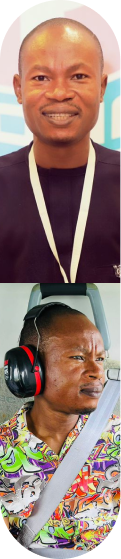
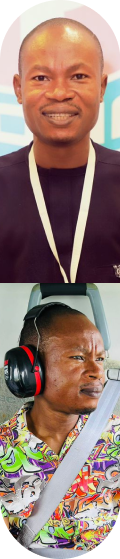
[chore]: improve about section design

diff --git a/src/components/AboutSummary.vue b/src/components/AboutSummary.vue
@@ -19,14 +19,14 @@ import HeaderCaption from "./HeaderCaption.vue";
     />
 
     <div
-      class="grid space-y-16 lg:space-y-0 lg:grid-cols-2 place-items-center gap-10"
+      class="grid space-y-16 lg:space-y-0 lg:grid-cols-2 place-items-center gap-4"
     >
       <div>
-        <div class="grid grid-cols-4 gap-2">
-          <img :src="ap1" alt="ap1" class="h-full" />
-          <img :src="ap2" alt="ap2" class="h-full" />
-          <img :src="ap3" alt="ap2" class="h-full" />
-          <img :src="ap4" alt="ap2" class="h-full" />
+        <div class="grid grid-cols-4 gap-2 place-items-center">
+          <img :src="ap1" alt="ap1" class="block h-full mr-1" />
+          <img :src="ap4" alt="ap2" class="block h-full" />
+          <img :src="ap3" alt="ap2" class="block h-full" />
+          <img :src="ap2" alt="ap2" class="block h-full" />
         </div>
       </div>
 
@@ -56,7 +56,7 @@ import HeaderCaption from "./HeaderCaption.vue";
         <br />
         <div>
           <RouterLink
-            to="/learn-more"
+            to="/about"
             class="text-sm py-3 px-6 border border-primary-500 rounded-full font-bold text-primary-500 hover:text-white hover:bg-primary-500 transition-all"
           >
             <span> Experience Fidelis’ Journey </span>

diff --git a/src/components/basket/Heading_2.vue b/src/components/basket/Heading_2.vue
@@ -15,7 +15,7 @@ const { content, className } = defineProps({
 <template>
   <h2
     :class="
-      cn('mb-2 text-center text-xl font-semibold text-primary-500', className)
+      cn('mb-2 text-center text-2xl font-semibold text-primary-500', className)
     "
   >
     {{ content }}

diff --git a/src/components/HeaderCaption.vue b/src/components/HeaderCaption.vue
@@ -1,7 +1,7 @@
 <template>
   <div class="lg:w-96 m-auto text-center mb-15">
     <Heading_2 :content="title" />
-    <Paragraph>
+    <Paragraph class-name="text-md">
       {{ subTitle }}
     </Paragraph>
   </div>

diff --git a/src/components/basket/Paragraph.vue b/src/components/basket/Paragraph.vue
@@ -9,7 +9,7 @@ const { className } = defineProps({
 </script>
 
 <template>
-  <p :class="cn('text-neutral-700', className)">
+  <p :class="cn('text-[#746F6F] text-lg', className)">
     <slot />
   </p>
 </template>
